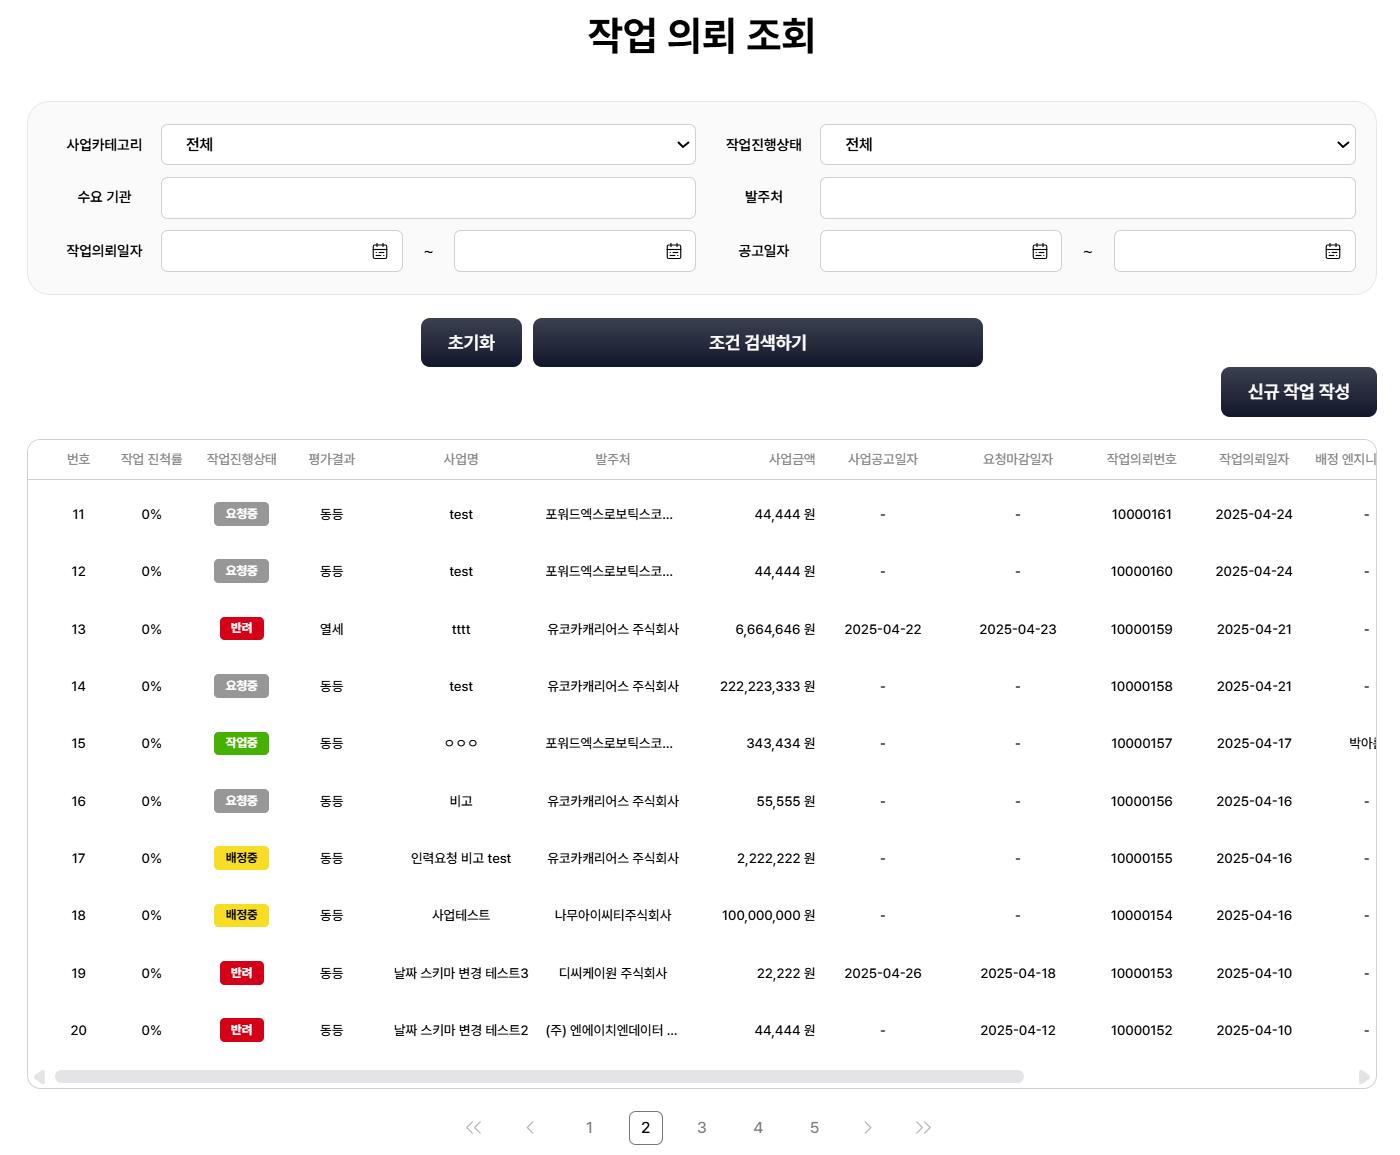
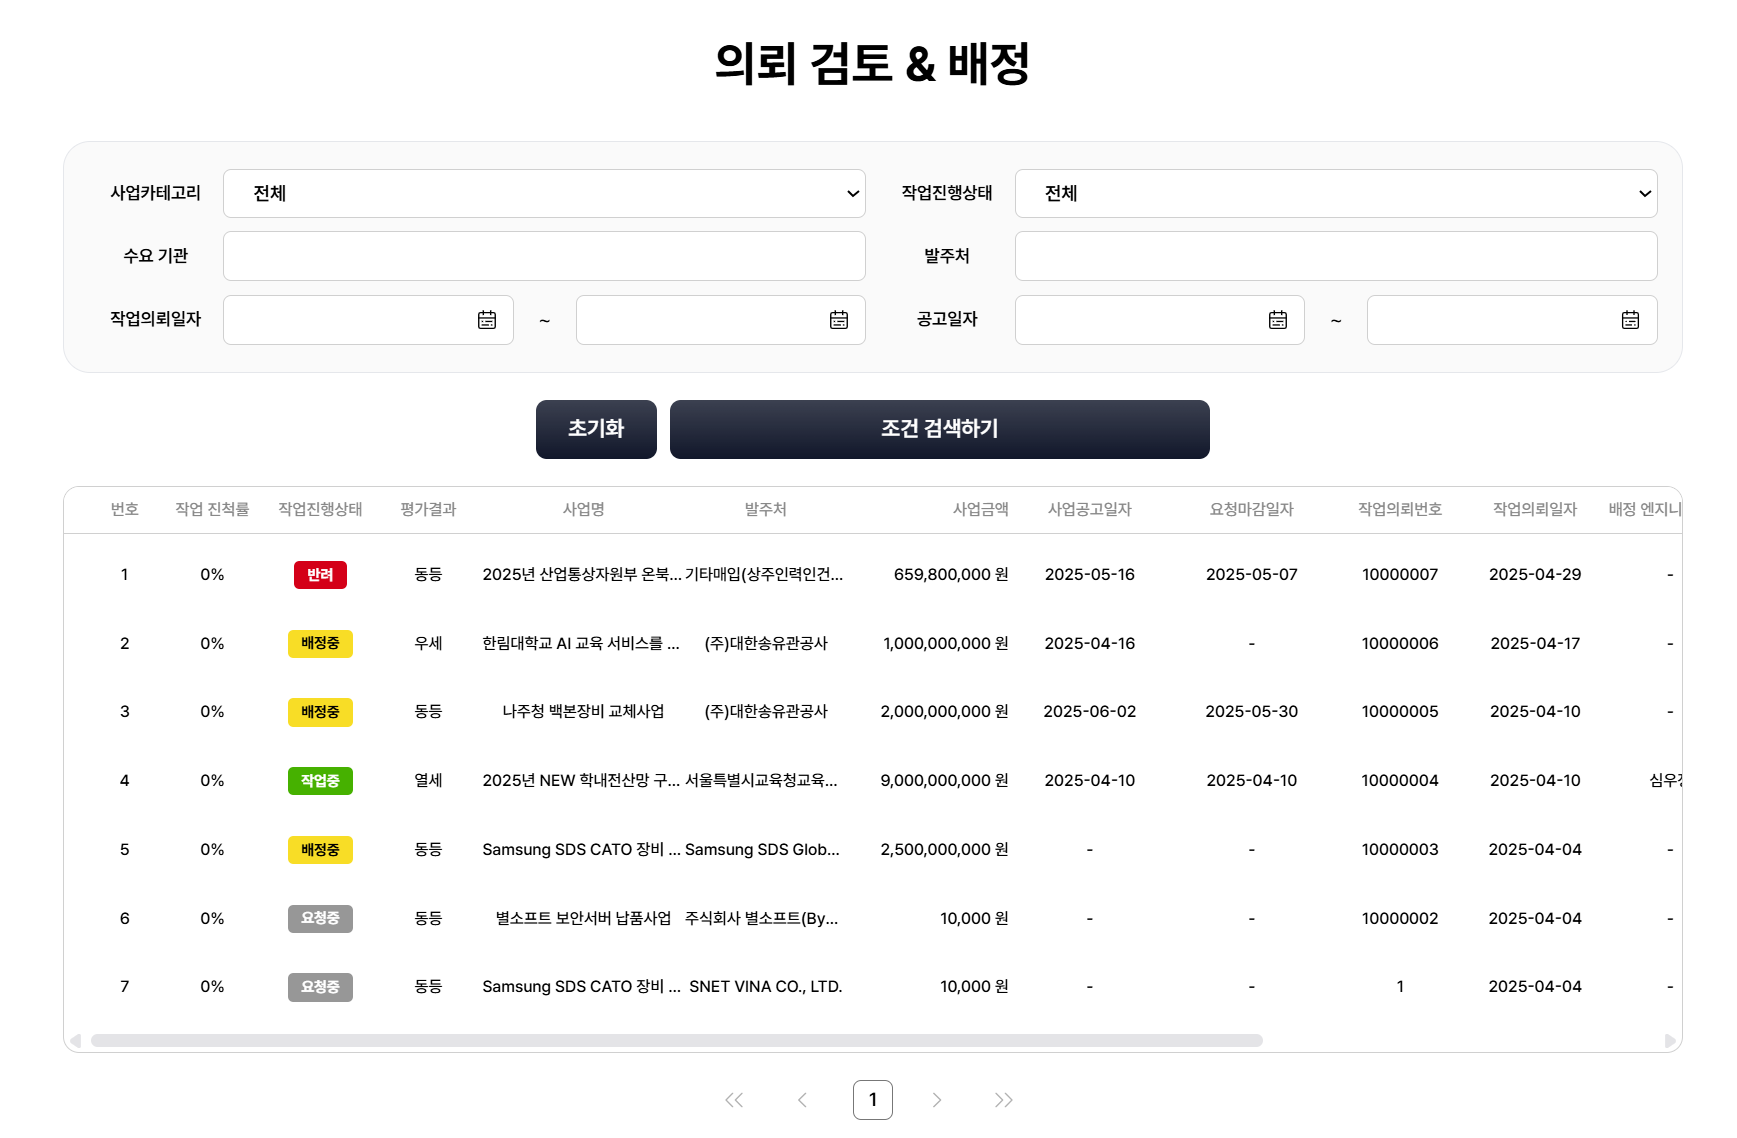
GITBOOK-16: No subject

diff --git a/tasks/and.md b/tasks/and.md
@@ -1,9 +1,37 @@
 ---
-description: 의뢰 내용을 검토하고 배정합니다.
+description: 배정담당자와 배정된 사원이 의뢰 검토, 배정 화면을 조회합니다.
 icon: magnifying-glass
 ---
 
 # 의뢰 검토 & 배정 조회
 
-<figure><img src="../.gitbook/assets/image (5).png" alt=""><figcaption></figcaption></figure>
+<figure><img src="../.gitbook/assets/image (1).png" alt=""><figcaption></figcaption></figure>
+
+description: 작업의 배정담당자와 배정된 사원이 작업 리스트를 확인합니다.
+
+
+
+**의뢰 검토 & 배정**
+
+* 사업카테고리, 작업진행상태, 수요 기관, 발주처, 작업의뢰일자, 공고일자를 선택하여 작업 리스트를 확인합니다.
+
+
+
+**작업 의뢰 리스트 항목**
+
+* 작업 진척률 : 작업 배정자들의 작업 진척률 평균입니다.
+* 작업 진행상태 : 요청중, 배정중, 작업중, 작업완료, 반려 단계로 나눠집니다.
+* 평가결과 : 작업 작성시사업참여 VRB 자체평가표 점수로 평가됩니다. (확실 40점, 우세 31\~39점, 동등 24\~30점, 열세 23점 이하)
+* 사업명
+* 발주처
+* 사업금액
+* 사업공고일자 : 입찰공고일
+* 요청마감일자 : 사전공고일 마감일자
+* 작업의뢰번호
+* 배정 엔지니어(PM) : 배정된 엔지니어 중 PM으로 지정된 사원입니다.
+* 완료 예정일 : 배정된 엔지니어들 중 마지막 종료 예정일
+* 작업 번호 : PQ-년도-영업자코드(3\~4)-순번3자리
+* 영업 담당자
+
+
 

diff --git a/commissions/undefined.md b/commissions/undefined.md
@@ -5,7 +5,7 @@ icon: magnifying-glass
 
 # 작업 의뢰 조회
 
-<figure><img src="../.gitbook/assets/image.png" alt=""><figcaption></figcaption></figure>
+<figure><img src="../.gitbook/assets/image (2).png" alt=""><figcaption></figcaption></figure>
 
 description: 작업 의뢰를 작성한 사원이나 영업 담당자로 지정된 사원의 작업 리스트를 확인합니다.
 
